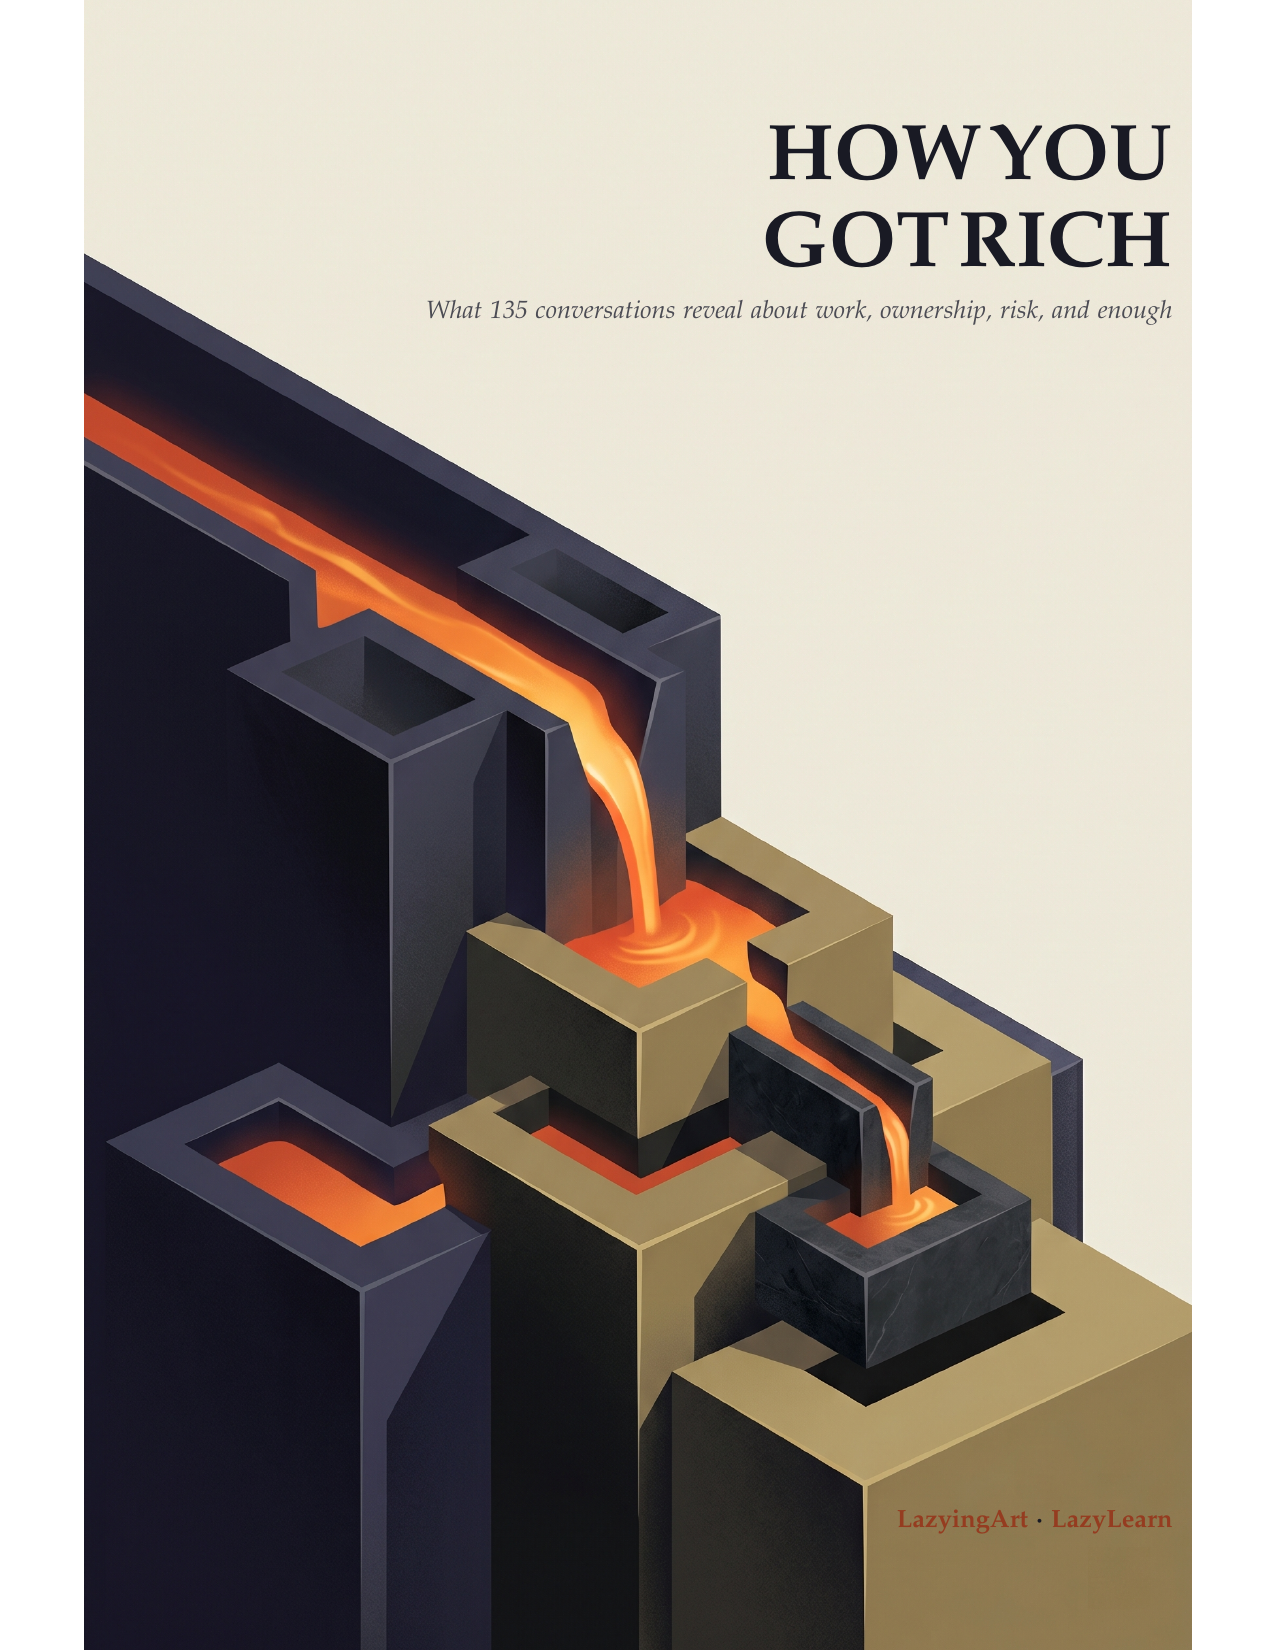
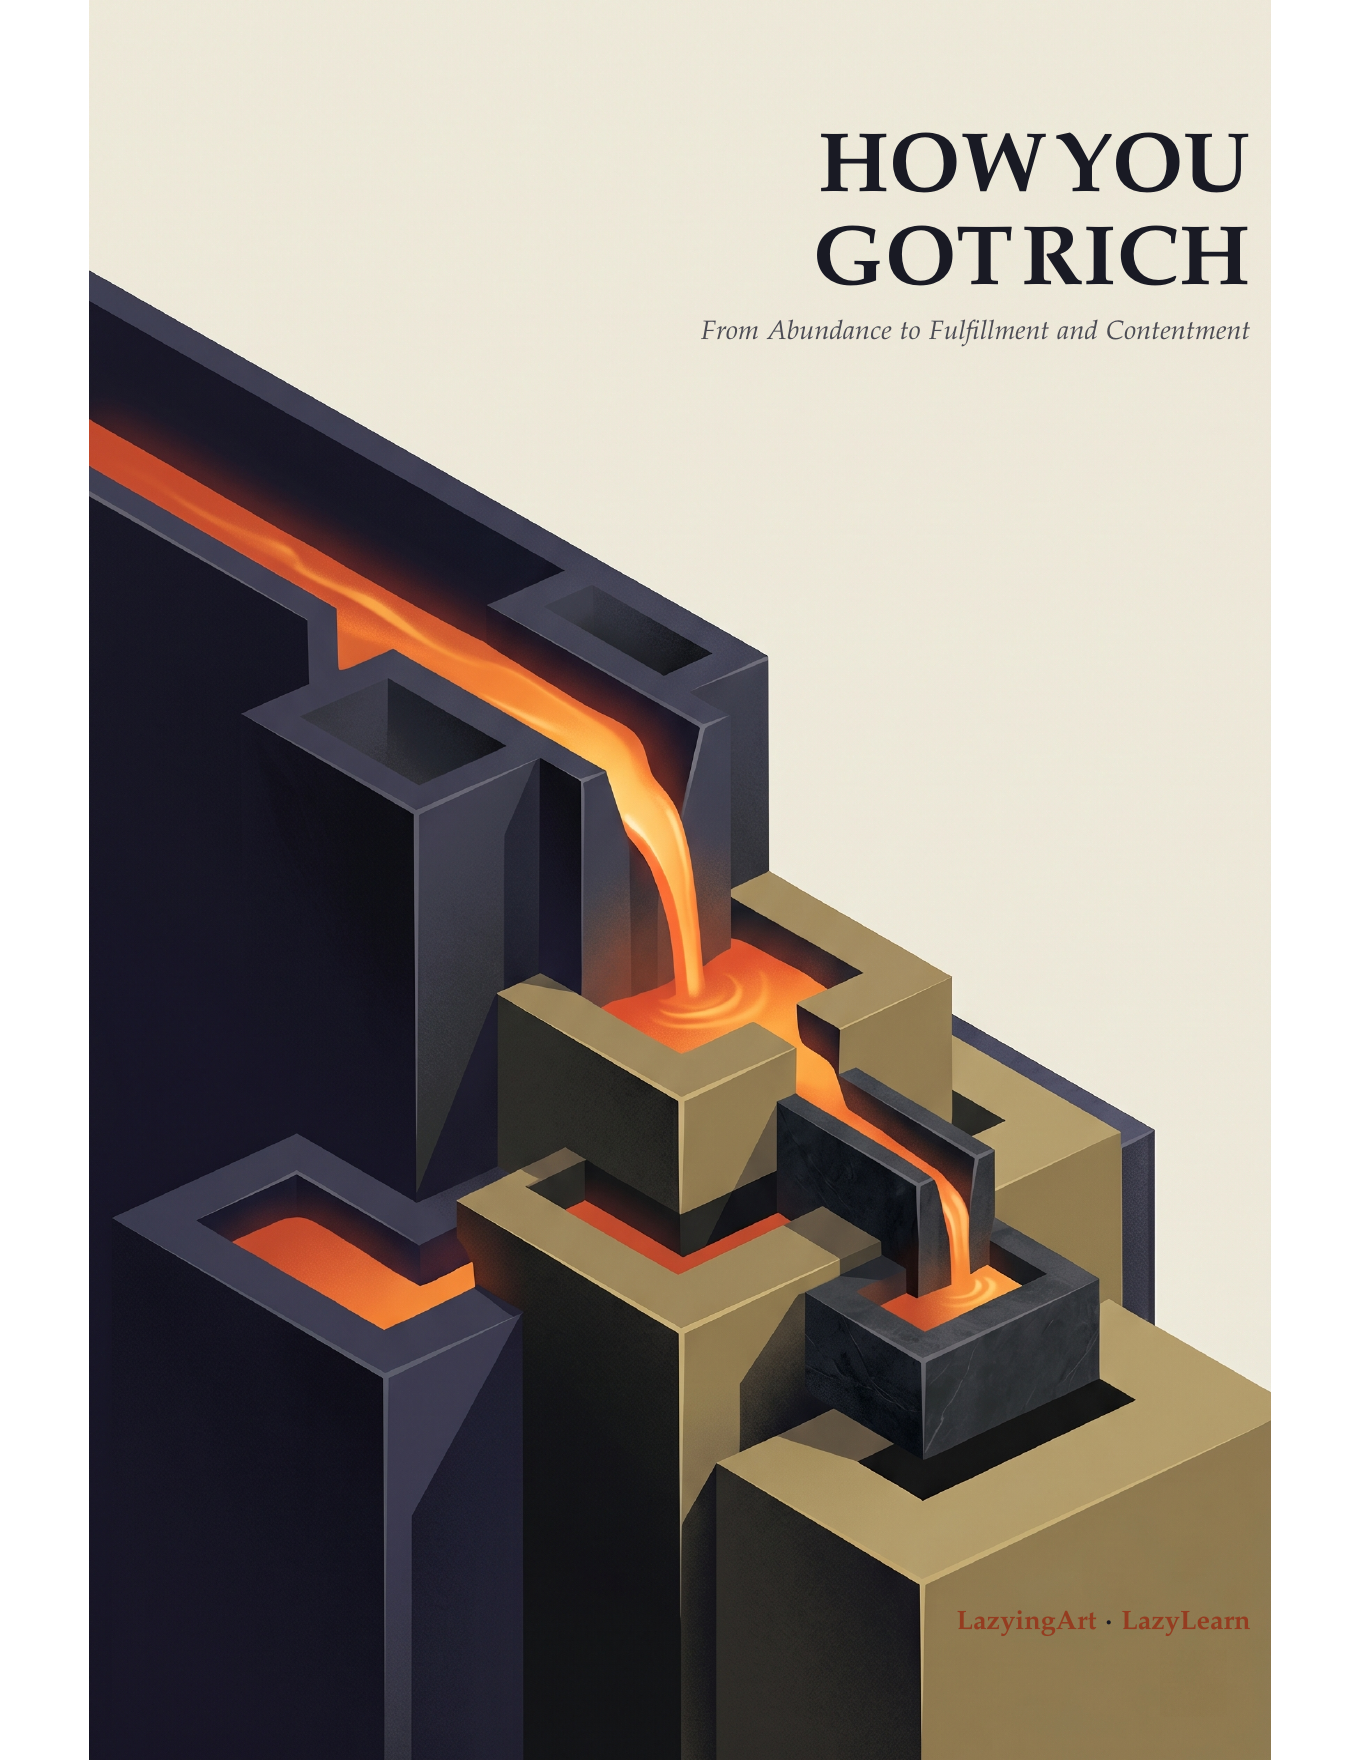
Consolidate the canonical publication

Changed region(s): [[0.4282, 0.1855, 0.9176, 0.2164], [0.7647, 0.1236, 0.8259, 0.1545], [0.3365, 0.1855, 0.3671, 0.2164]]

diff --git a/source/book/manuscript/frontmatter.tex b/source/book/manuscript/frontmatter.tex
@@ -13,7 +13,7 @@
     {\fontsize{38}{42}\selectfont\bfseries\color{wealthink} HOW YOU\\GOT RICH\par}
     \vspace{1.0em}
     {\large\itshape\color{wealthink!78}
-      What 135 conversations reveal about work, ownership, risk, and enough\par}
+      From Abundance to \mbox{Fulfillment} and Contentment\par}
   };
   \node[
     anchor=south east,
@@ -35,7 +35,7 @@
 
 {\Huge\bfseries How You Got Rich\par}
 \vspace{0.7em}
-{\Large\itshape What 135 conversations reveal about work, ownership, risk, and enough\par}
+{\Large\itshape From Abundance to \mbox{Fulfillment} and Contentment\par}
 
 \vfill
 

diff --git a/source/book/how-you-got-rich.tex b/source/book/how-you-got-rich.tex
@@ -14,7 +14,7 @@
 \hypersetup{
   pdftitle={How You Got Rich},
   pdfauthor={LazyingArt · LazyLearn},
-  pdfsubject={Abundance, fulfillment, contentment, freedom, and wealth},
+  pdfsubject={From Abundance to Fulfillment and Contentment},
   colorlinks=true,
   linkcolor=wealthfire!75!black,
   urlcolor=wealthfire!75!black,

diff --git a/README.md b/README.md
@@ -6,13 +6,15 @@
   </a>
 </p>
 
-**What 135 conversations reveal about work, ownership, risk, and enough.**
+### From Abundance to Fulfillment and Contentment
 
-*How You Got Rich* brings the School of Hard Knocks interview corpus into one
-continuous inquiry. Success stories are tested against failures, luck,
-starting conditions, incentives, survivorship, and the costs carried by other
-people. The book is practical without promising that another person's route
-to wealth can be copied.
+*How You Got Rich* is a rigorous, candid search for how people become rich,
+how wealth is created, kept, and deployed, and how it can become freedom,
+abundance, fulfillment, and contentment rather than status without an end.
+The School of Hard Knocks interview corpus is its human and evidentiary spine.
+Success stories are tested against failures, luck, starting conditions,
+incentives, survivorship, and costs carried by other people. The book is
+practical without promising that another person's route can simply be copied.
 
 ## A Richer Definition of Wealth
 
@@ -47,6 +49,13 @@ decide how that room should be used.
 | --- | --- | --- |
 | Full size, 162 pages | Print, desktop, and larger tablets | [PDF](editions/how-you-got-rich.pdf) |
 | Pocket 1.2x, 312 pages | Compact screens, e-readers, and 6x9 printing | [PDF](editions/how-you-got-rich-pocket-1.2x.pdf) |
+
+The accepted V2 edition is permanently archived as
+[full size](editions/v2/how-you-got-rich-v2.pdf) and
+[pocket 1.2x](editions/v2/how-you-got-rich-v2-pocket-1.2x.pdf). Unversioned
+links always point to the latest accepted edition; publishing a later edition
+does not remove V2. See the [edition policy](VERSIONING.md) for the durable
+version and repository-history rules.
 
 The editable book lives in [`source/`](source/). The cover preview above is
 rendered from page one of the accepted full-size PDF, not from separate cover
@@ -103,7 +112,7 @@ GitHub can export citation formats from [`CITATION.cff`](CITATION.cff).
 ```bibtex
 @book{lazyingart2026howyougotrich,
   author    = {{LazyingArt LLC}},
-  title     = {How You Got Rich: What 135 Conversations Reveal about Work, Ownership, Risk, and Enough},
+  title     = {How You Got Rich: From Abundance to Fulfillment and Contentment},
   year      = {2026},
   publisher = {LazyingArt and LazyLearn},
   url       = {https://github.com/lachlanchen/HowYouGotRich}

diff --git a/UPSTREAM.md b/UPSTREAM.md
@@ -2,13 +2,19 @@
 
 This repository is the curated publication surface for *How You Got Rich*.
 The broader source project is
-[`lachlanchen/LazyEarn`](https://github.com/lachlanchen/LazyEarn), with book
-development on its `wealth-book-polish` branch.
+[`lachlanchen/LazyEarn`](https://github.com/lachlanchen/LazyEarn). V3
+development continues on its evidence-rich `wealth-book-v3` branch; only
+accepted publication milestones are promoted here.
 
 The first standalone snapshot was exported from LazyEarn commit
 `f2ea57d09e1f17b189c685923c86938a2d98559c`. The manuscript and accepted PDF
 content were established at commit
 `49e051a3cd807edaa19d8dd0017e0fa785d08b61`.
+The final repository identity and subtitle were established at commit
+`1dd77b70ab2c88c4318c5b3123667a867ed0df6d`.
+The accepted rebuilt editions and synchronized publication record were
+exported from commit
+`2866199f4b873da7548798b8df9a70ddd9495bff`.
 
 A publication update should copy only:
 

diff --git a/VERSIONING.md b/VERSIONING.md
@@ -1,0 +1,21 @@
+# Edition Policy
+
+This repository keeps every accepted reader edition so changes can be compared
+without losing a known-good book.
+
+- `editions/how-you-got-rich.pdf` and its pocket counterpart always identify
+  the latest accepted edition.
+- `editions/v2/` permanently preserves V2, including checksums.
+- Future accepted editions receive their own directory, release, and tag before
+  the unversioned links move forward.
+- Published edition files are never silently replaced or removed.
+
+GitHub releases provide convenient immutable downloads. The `v2.0.0` release
+contains the full-size and 1.2x pocket V2 PDFs.
+
+## Repository History
+
+Two standalone publication repositories were created during the first export.
+`lachlanchen/HowYouGotRich` is now canonical. Their histories remain available
+here as `archive/initial-camelcase-publication` and
+`archive/hyphenated-publication`; no accepted book or commit was discarded.

diff --git a/editions/v2/README.md b/editions/v2/README.md
@@ -1,0 +1,10 @@
+# How You Got Rich V2
+
+This directory permanently preserves the accepted V2 reader editions:
+
+- [Full-size PDF](how-you-got-rich-v2.pdf), 162 pages.
+- [Pocket 1.2x PDF](how-you-got-rich-v2-pocket-1.2x.pdf), 312 pages at 6x9
+  inches.
+
+The files are byte-identical to the canonical editions accepted on
+August 25, 2026. See [`SHA256SUMS`](SHA256SUMS) for verification.
